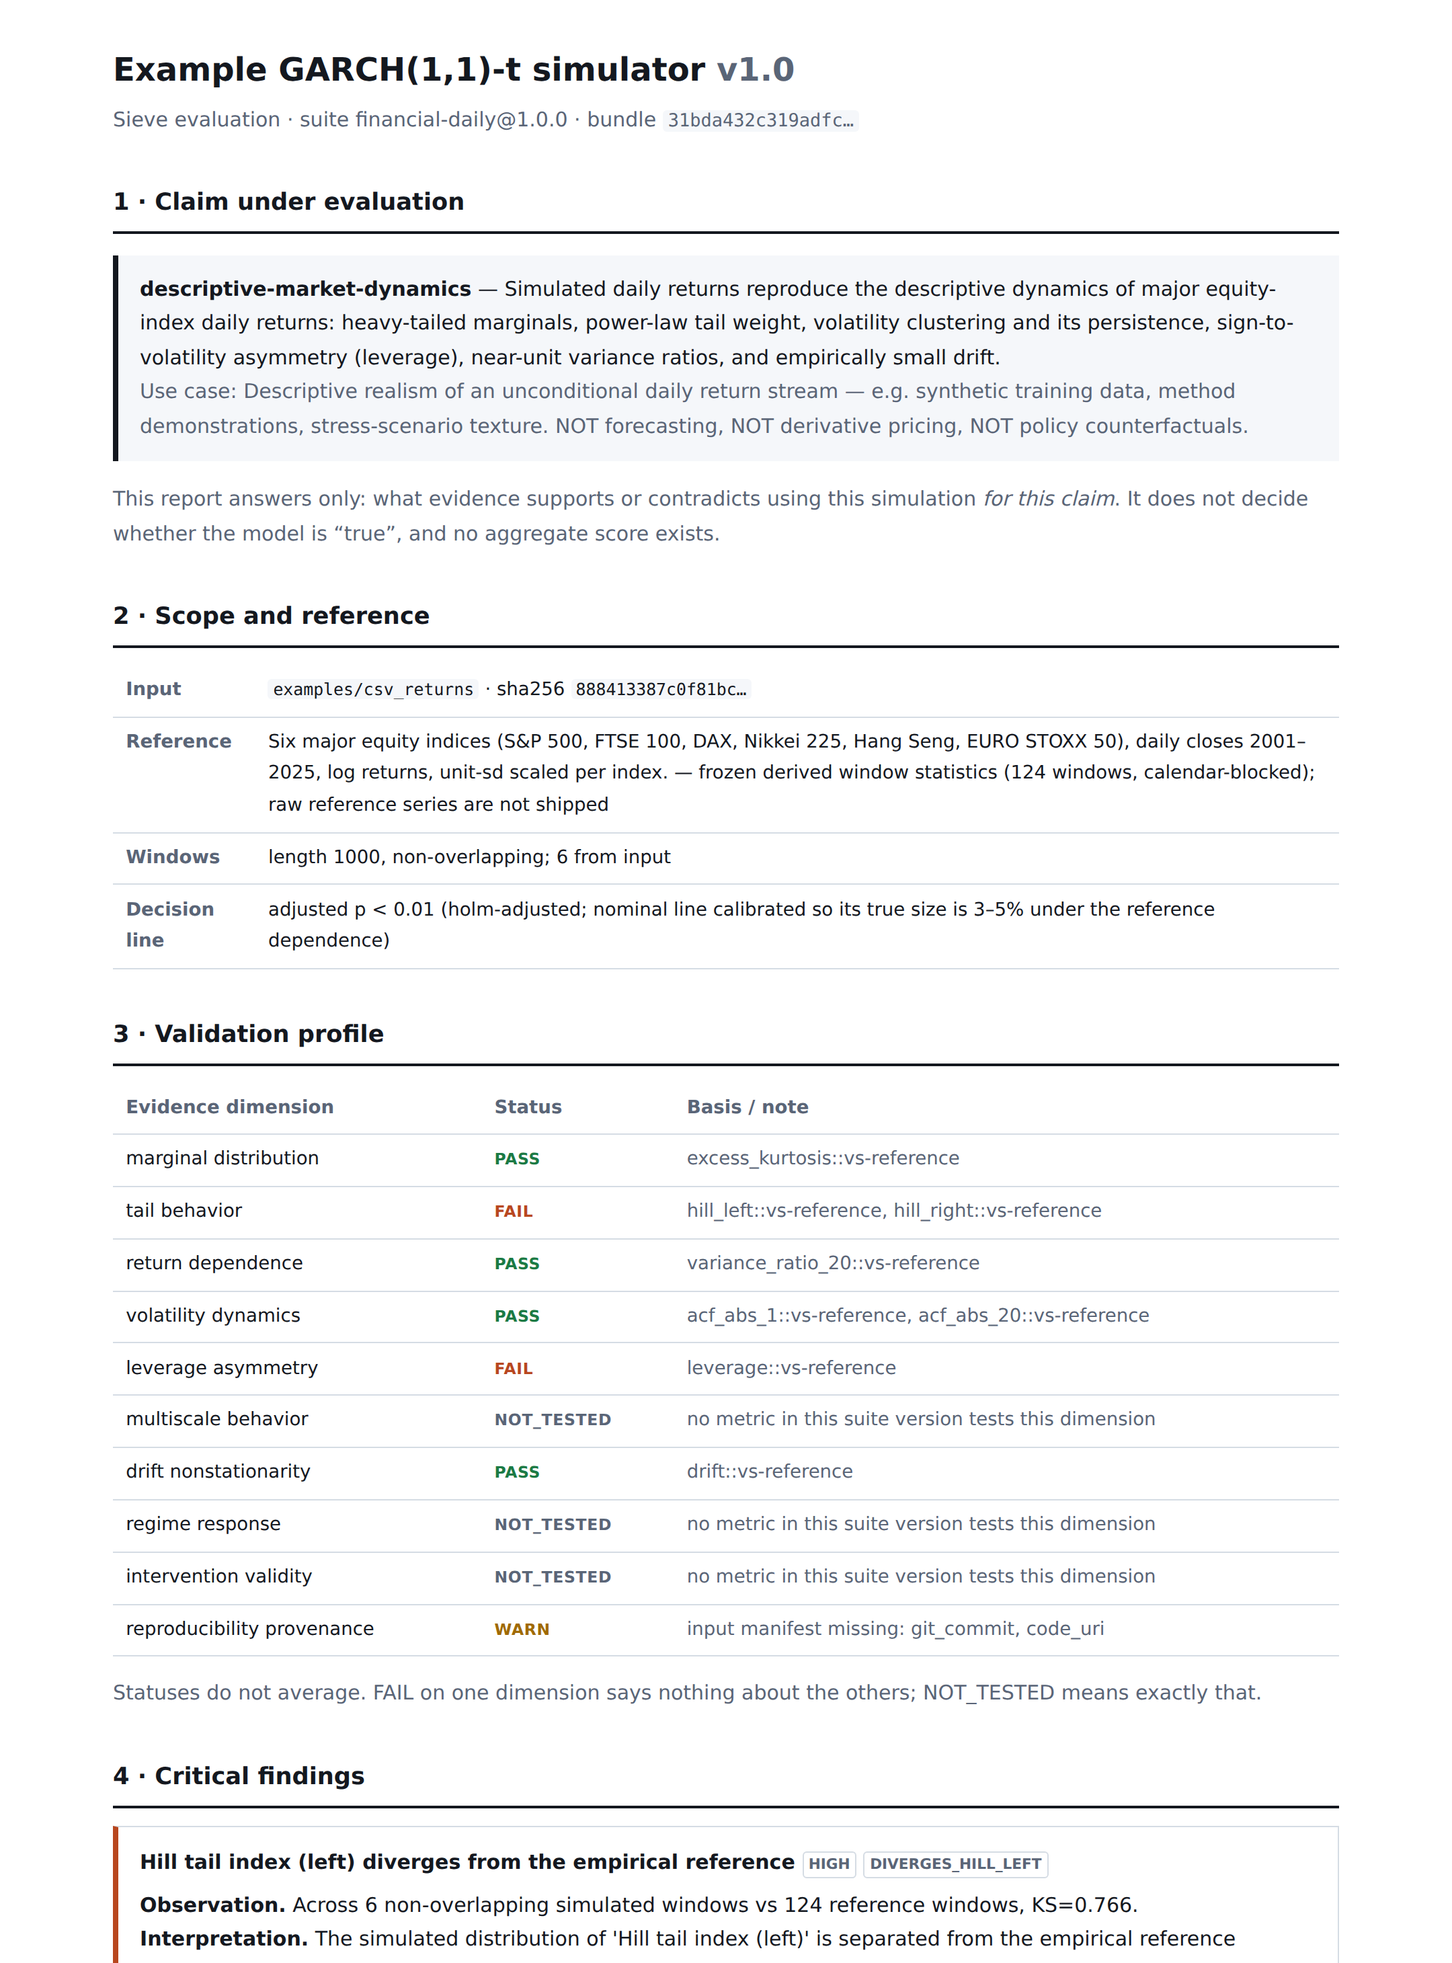
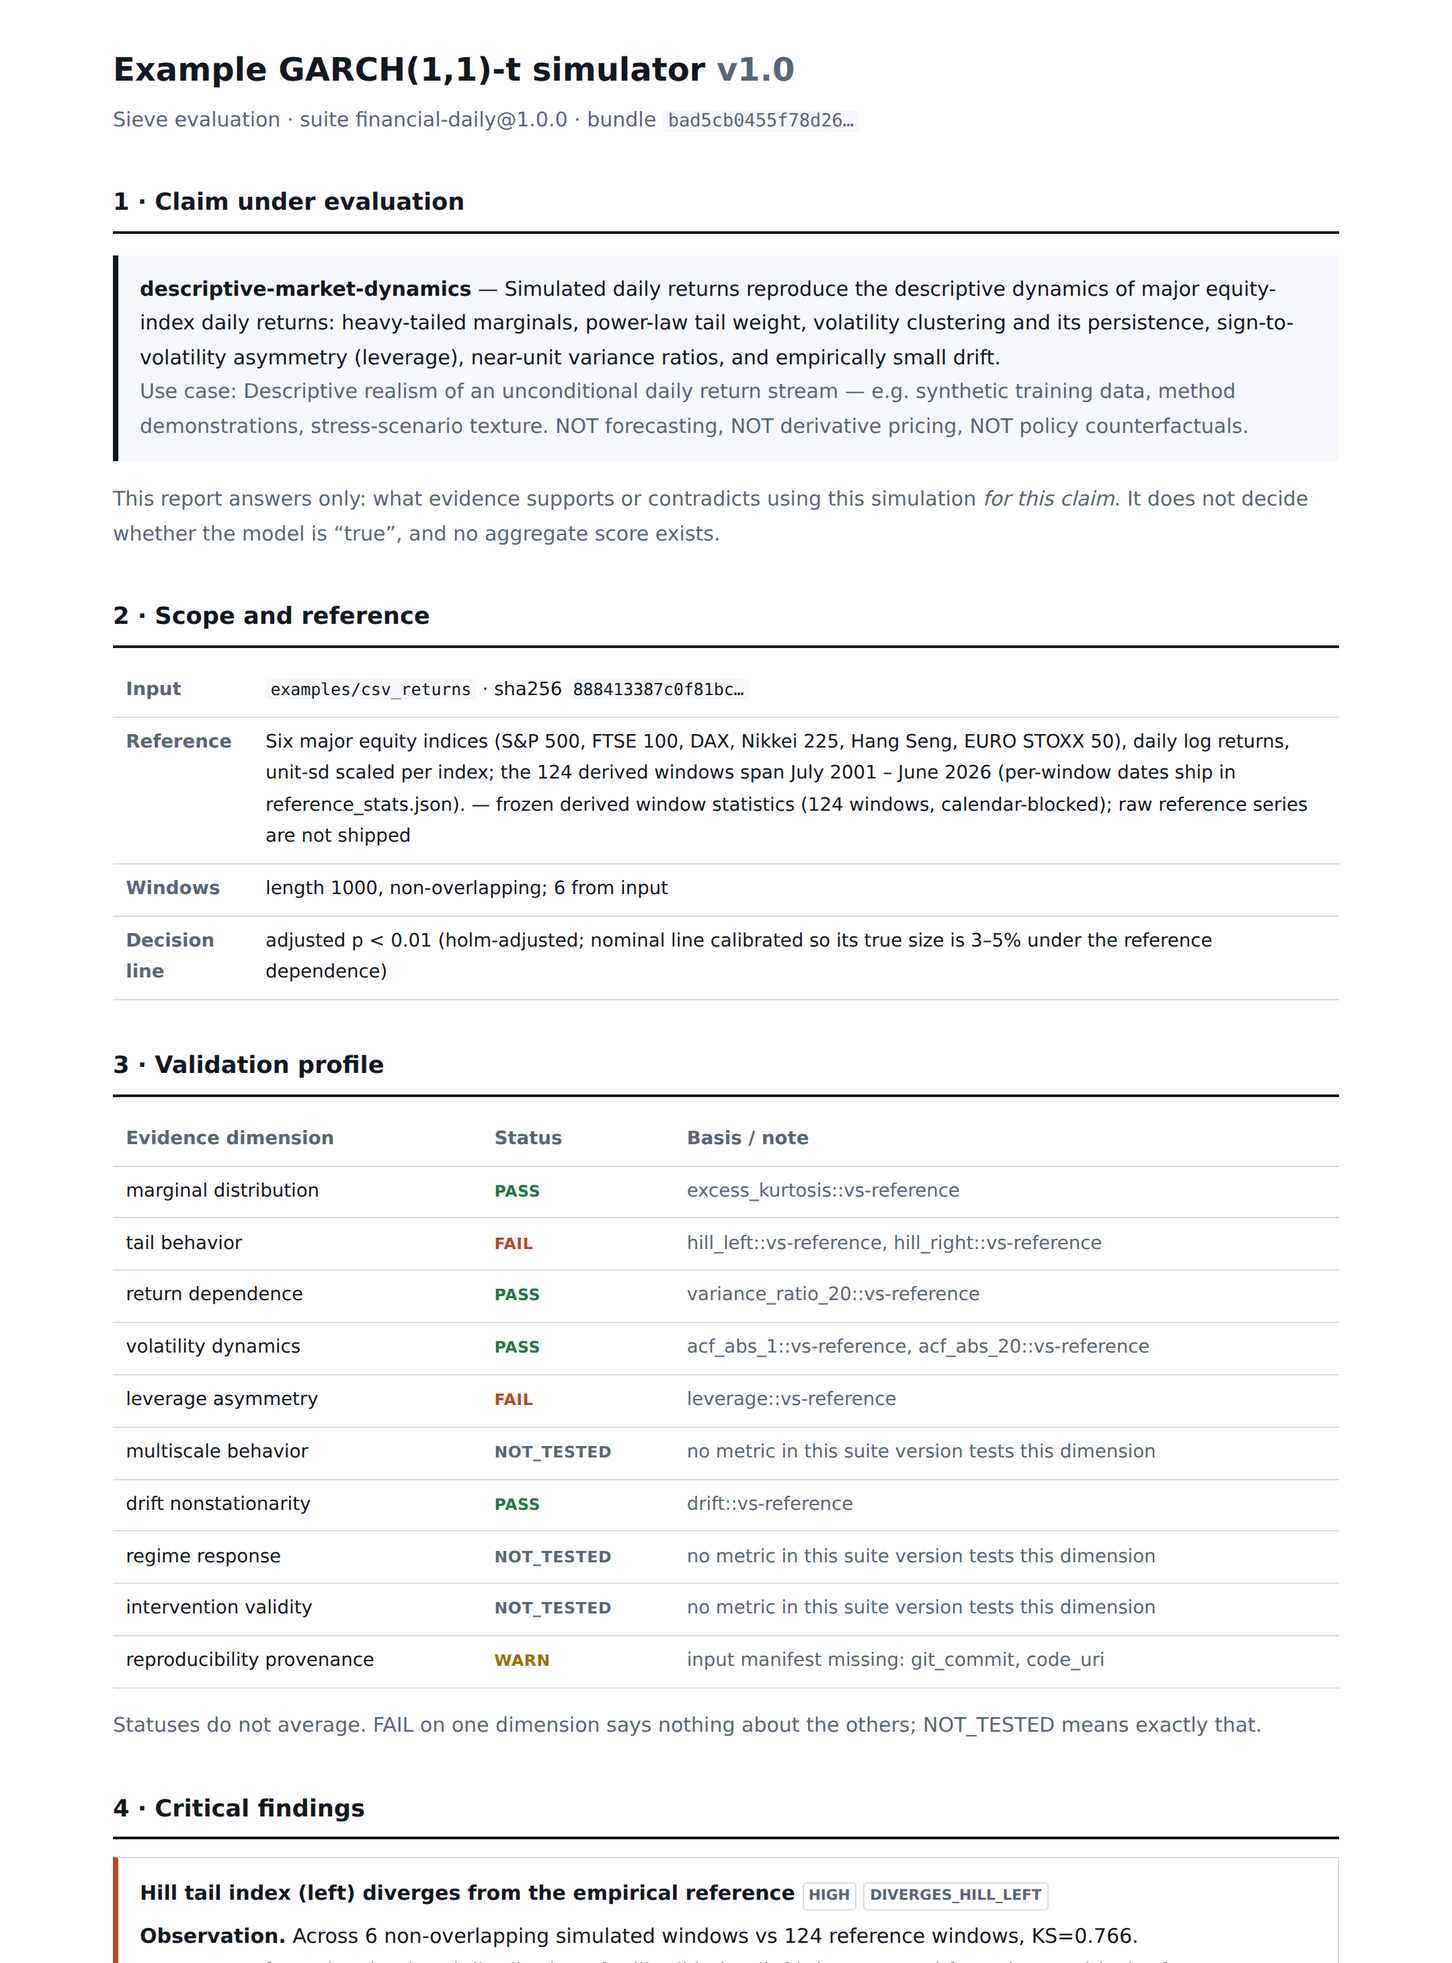
v0.1.1: pre-outreach corrections from review
Four findings, all fixed before any external reproduction request:

1. The bit-for-bit parity claim was skippable: a standalone clone ran
   69 tests and silently skipped the 9 needing the research repo. CI
   now has a parity job that checks out sieve-bench at a pinned commit
   (14baa86) and sets SIEVE_RESEARCH_ROOT, under which a missing or
   broken research checkout FAILS the golden tests instead of skipping.
   Skip messages in standalone clones now say where the claim is
   enforced. README/STATUS state the 69/8/1 split precisely.
2. The reproduction environment was unpinned: pip install -e . pulled
   latest deps while docs named specific versions. constraints.txt now
   pins the exact stack the example was sealed with (transitive closure
   included); docs/reproduce.md and both CI jobs install with it.
3. docs/architecture.md claimed the seal covers package versions; the
   implementation excludes the entire environment fingerprint. The docs
   now describe what is implemented - versions are recorded but not
   sealed, so a dependency change is detected exactly when it changes a
   measured value - and why that is the intended semantics.
4. The suite manifest said the reference covers 2001-2025; the shipped
   windows span July 2001 - June 2026. The label now states the span of
   the derived windows, verifiable from reference_stats.json.

Fixes 1 and 4 change suite content and the version is now sealed as
[…]

Changed region(s): [[0.062, 0.3428, 0.8995, 0.9973]]

diff --git a/docs/example-run/report/index.html b/docs/example-run/report/index.html
@@ -42,7 +42,7 @@
 
 <h1>Example GARCH(1,1)-t simulator <span class="muted">v1.0</span></h1>
 <div class="muted">Sieve evaluation · suite financial-daily@1.0.0
-· bundle <code>31bda432c319adfc…</code></div>
+· bundle <code>bad5cb0455f78d26…</code></div>
 
 <h2>1 · Claim under evaluation</h2>
 <div class="claim">
@@ -57,7 +57,7 @@ model is “true”, and no aggregate score exists.</p>
 <table>
   <tr><th>Input</th><td><code>examples/csv_returns</code>
       · sha256 <code>888413387c0f81bc…</code></td></tr>
-  <tr><th>Reference</th><td>Six major equity indices (S&P 500, FTSE 100, DAX, Nikkei 225, Hang Seng, EURO STOXX 50), daily closes 2001–2025, log returns, unit-sd scaled per index. — frozen derived
+  <tr><th>Reference</th><td>Six major equity indices (S&P 500, FTSE 100, DAX, Nikkei 225, Hang Seng, EURO STOXX 50), daily log returns, unit-sd scaled per index; the 124 derived windows span July 2001 – June 2026 (per-window dates ship in reference_stats.json). — frozen derived
       window statistics (124 windows,
       calendar-blocked); raw reference series are not shipped</td></tr>
   <tr><th>Windows</th><td>length 1000,
@@ -271,12 +271,12 @@ about the others; NOT_TESTED means exactly that.</p>
 
 <h2>7 · Provenance</h2>
 <table>
-  <tr><th>Run</th><td><code>190cc8da045f</code>
-      · sieve 0.1.0</td></tr>
+  <tr><th>Run</th><td><code>6488d40d92ad</code>
+      · sieve 0.1.1</td></tr>
   <tr><th>Command</th><td><code>sieve test examples/csv_returns --suite financial-daily@1.0 --claim descriptive-market-dynamics</code></td></tr>
   <tr><th>Master seed</th><td><code>20260802</code>
       (4 named children recorded)</td></tr>
-  <tr><th>Suite hash</th><td><code>7808f705d610cfde…</code></td></tr>
+  <tr><th>Suite hash</th><td><code>343042f8ceedf18a…</code></td></tr>
   <tr><th>Model source</th><td>git commit not provided
       · code URI not provided</td></tr>
   <tr><th>Environment</th><td class="muted">python 3.11.15 · platform Linux-6.18.5-fc-v20-x86_64-with-glibc2.39 · numpy 2.4.6 · pydantic 2.13.4 · scipy 1.17.1 · polars 1.43.2 · </td></tr>

diff --git a/tests/golden/test_metric_parity.py b/tests/golden/test_metric_parity.py
@@ -2,16 +2,22 @@
 
 Three layers, strongest available first:
 
-1. The suite ships byte-identical copies of the frozen fixtures.
+1. The suite ships byte-identical copies of the frozen fixtures. Runs
+   everywhere, always.
 2. Product metric functions equal the research functions bit-for-bit on
-   arbitrary synthetic input (runs whenever the research repo is present —
-   it is the parent directory in the current layout).
+   arbitrary synthetic input. Requires the sieve-bench research repo. CI
+   checks it out at a pinned commit and sets ``SIEVE_RESEARCH_ROOT`` — with
+   that variable set, a missing or unimportable research repo is a FAILURE,
+   not a skip. Without it (a standalone clone), these tests skip and say so;
+   the CI parity job is where the claim is enforced.
 3. Recomputing the 124 reference windows with product metrics reproduces the
-   frozen values exactly (runs only when the raw index data has been fetched
-   locally; the data itself is never shipped).
+   frozen values exactly. Needs the raw index data fetched locally
+   (sieve-bench ``fetch.py``); the data is not redistributable, so this
+   layer never runs in CI and skips wherever the data is absent.
 """
 
 import json
+import os
 import sys
 from pathlib import Path
 
@@ -19,18 +25,42 @@ import numpy as np
 import pytest
 
 PRODUCT = Path(__file__).resolve().parents[2]
-RESEARCH = PRODUCT.parent
+# CI pins the research checkout via SIEVE_RESEARCH_ROOT; the fallback covers
+# the historical monorepo layout (product/ inside sieve-bench).
+RESEARCH = Path(os.environ.get("SIEVE_RESEARCH_ROOT", PRODUCT.parent))
+RESEARCH_REQUIRED = "SIEVE_RESEARCH_ROOT" in os.environ
 FIX = Path(__file__).resolve().parent / "fixtures"
 SUITE = PRODUCT / "suites" / "financial-daily" / "1.0.0"
 
 M1_METRICS = ["excess_kurtosis", "hill_left", "hill_right", "acf_abs_1",
               "acf_abs_20", "leverage", "variance_ratio_20", "drift"]
 
+SKIP_NO_RESEARCH = (
+    "research repo not present; the parity claim is enforced by the CI "
+    "parity job against a pinned sieve-bench checkout "
+    "(SIEVE_RESEARCH_ROOT), see .github/workflows/test.yml")
+SKIP_NO_DATA = (
+    "raw index data not fetched locally (not redistributable; run "
+    "sieve-bench fetch.py to enable this layer — it never runs in CI)")
+
 
 def product_fn(mid):
     from sieve.metrics import registry
     fn, _, _ = registry.resolve(mid)
     return fn
+
+
+def _research_available() -> bool:
+    return (RESEARCH / "facts.py").exists()
+
+
+def _require_research():
+    """FAIL (not skip) when the pinned research checkout is broken."""
+    assert _research_available(), (
+        f"SIEVE_RESEARCH_ROOT={RESEARCH} is set but facts.py is not there — "
+        "the parity gate must not silently skip")
+    if str(RESEARCH) not in sys.path:
+        sys.path.insert(0, str(RESEARCH))
 
 
 # ---- layer 1: the suite ships exactly the frozen fixtures ------------------
@@ -55,11 +85,12 @@ def test_fixture_shape():
 
 # ---- layer 2: product == research on synthetic input, bit for bit ----------
 
-@pytest.mark.skipif(not (RESEARCH / "facts.py").exists(),
-                    reason="research repo absent")
+@pytest.mark.skipif(not RESEARCH_REQUIRED and not (Path(__file__).resolve()
+                    .parents[2].parent / "facts.py").exists(),
+                    reason=SKIP_NO_RESEARCH)
 @pytest.mark.parametrize("mid", M1_METRICS)
 def test_product_metric_equals_research_bit_for_bit(mid):
-    sys.path.insert(0, str(RESEARCH))
+    _require_research()
     import facts
     rng = np.random.default_rng(2026)
     samples = [rng.standard_normal(1000),
@@ -79,9 +110,9 @@ def test_product_metric_equals_research_bit_for_bit(mid):
 
 @pytest.mark.skipif(not (RESEARCH / "data").is_dir()
                     or not any((RESEARCH / "data").glob("*.json")),
-                    reason="raw index data not fetched locally")
+                    reason=SKIP_NO_DATA)
 def test_reference_values_recompute_exactly():
-    sys.path.insert(0, str(RESEARCH))
+    _require_research()
     from windows import load_series, real_windows
     ref = json.loads((FIX / "reference_stats.json").read_text())
     wins = real_windows(load_series())

diff --git a/tests/unit/test_cli.py b/tests/unit/test_cli.py
@@ -9,9 +9,10 @@ runner = CliRunner()
 
 
 def test_version():
+    import sieve
     res = runner.invoke(app, ["--version"])
     assert res.exit_code == 0
-    assert "sieve 0.1.0" in res.output
+    assert f"sieve {sieve.__version__}" in res.output
 
 
 def test_doctor_ok():

diff --git a/src/sieve/__init__.py b/src/sieve/__init__.py
@@ -4,4 +4,4 @@ Everything durable is a versioned, hashable artifact; nothing anywhere
 aggregates evidence into a single score.
 """
 
-__version__ = "0.1.0"
+__version__ = "0.1.1"

diff --git a/docs/reproduce.md b/docs/reproduce.md
@@ -6,28 +6,31 @@ statuses and the scientific seal.
 
 ## Environment
 
-Any OS. Python ≥ 3.11. Results are exact given the same package versions;
-the frozen example below was produced with:
+Any OS. Python ≥ 3.11. `constraints.txt` (committed) pins the exact package
+versions the frozen example was sealed with — install with it for the
+byte-exact seal check. Key pins:
 
 | package | version |
 |---|---|
-| python | 3.11.x |
 | numpy | 2.4.6 |
 | scipy | 1.17.1 |
 | pydantic | 2.13.4 |
 | polars | 1.43.2 |
 
-Different major versions will still reproduce the statuses; the byte-exact
-`bundle_hash` is only guaranteed under matching numerical stack versions
-(a different floating-point stack is a different computation, and the seal is
-supposed to notice).
+Without the constraints (newer packages), the statuses should still
+reproduce; the byte-exact `bundle_hash` is guaranteed only under the pinned
+numerical stack. Versions are recorded in the bundle's environment
+fingerprint but deliberately not hashed into the seal — a dependency change
+is detected exactly when it changes a measured value
+(`docs/architecture.md`).
 
 ## Steps
 
 ```
 git clone https://github.com/yuitokyouni/sieve
 cd sieve
-pip install -e .            # or: uv pip install -e .
+python -m venv .venv && . .venv/bin/activate
+pip install -e . -c constraints.txt      # or: uv pip install -e . -c constraints.txt
 
 # 1. integrity of the shipped example, without running anything
 sieve verify docs/example-run
@@ -42,8 +45,7 @@ sieve verify /tmp/sieve-runs/<run-id>
 
 ## Expected results
 
-The validation profile printed by step 2 (and in
-`report/index.html`):
+The validation profile printed by step 2 (and in `report/index.html`):
 
 | dimension | status |
 |---|---|
@@ -67,17 +69,29 @@ The scientific seal in `evidence_bundle.json` (`bundle_hash`) and printed by
 `sieve test`:
 
 ```
[2 lines of base64/hex data omitted]
 ```
 
 The suite hash recorded in the same bundle (`suite.suite_hash`):
 
 ```
[2 lines of base64/hex data omitted]
 ```
 
 Your `run_id`, timestamps and machine fingerprint will differ — they are
 outside the seal by design (`docs/architecture.md`).
+
+## Reproductions on record
+
+Machine-independent reproductions of the seal above, before any external
+request was made:
+
+- **Continuous:** every CI push reruns the golden path on a fresh
+  `ubuntu-latest` runner (a machine that never touched the sealing
+  environment) and asserts its `bundle_hash` equals the committed example's
+  — the "seal reproduces on this machine" step in
+  `.github/workflows/test.yml`, visible per-run in the Actions tab.
+- Named third-party reproductions will be listed here as they happen.
 
 ## If something does not match
 

diff --git a/CHANGELOG.md b/CHANGELOG.md
@@ -1,5 +1,42 @@
 # Changelog
 
+## 0.1.1 — 2026-08-09
+
+Pre-outreach corrections, all four found by review before any external
+reproduction request. Content changes shift the hashes; v0.1.0's pins remain
+valid for the v0.1.0 tag.
+
+Pinned by this release:
+
+- suite `financial-daily@1.0.0`, suite_hash
[1 lines of base64/hex data omitted]
+- frozen example run `docs/example-run/`, bundle_hash
[1 lines of base64/hex data omitted]
+- reproduction environment: `constraints.txt` (exact pins the example was
+  sealed with; transitive closure included)
+
+Changes:
+
+- **Parity claim now enforced, not skipped.** A standalone clone runs 69
+  tests and skips the 9 that need the research repo or its raw data. CI
+  gained a `parity` job that checks out sieve-bench at a pinned commit and
+  sets `SIEVE_RESEARCH_ROOT`, under which a missing or broken research
+  checkout is a test failure. Skip messages now say where the claim is
+  enforced.
+- **Reproduction environment pinned.** `constraints.txt` committed;
+  `docs/reproduce.md` and CI install with `-c constraints.txt`. Statuses
+  reproduce on newer stacks; the byte-exact seal is guaranteed under the
+  pins.
+- **Seal vs package versions documented correctly.** `docs/architecture.md`
+  claimed the seal covers package versions; it does not — the entire
+  environment fingerprint is recorded but unhashed, so a dependency change
+  is detected exactly when it changes a measured value. The docs now say
+  so, and say why.
+- **Reference period label fixed.** The suite manifest said "2001–2025";
+  the shipped windows span July 2001 – June 2026. The label now states the
+  span of the derived windows, verifiable from `reference_stats.json`
+  (suite_hash and all downstream hashes changed accordingly).
+
 ## 0.1.0 — 2026-08-09
 
 First public release: M0 (foundations) + M1 (offline golden path) + M1.5

diff --git a/docs/architecture.md b/docs/architecture.md
@@ -10,11 +10,20 @@ Every run produces two hashes with deliberately different scopes:
 
 - **`bundle_hash` — scientific identity.** SHA-256 of the canonical bundle
   JSON with volatile fields nulled shape-preserving. It covers the data
-  content hash, suite hash, claim, master seed and seed tree, package
-  versions, all results, the profile and the findings. It excludes run IDs,
-  timestamps, the artifact index, filesystem paths and the machine
-  fingerprint. Contract: same input bytes + same suite + same seed + same
-  package versions ⇒ same seal, on any machine. This is the hash to quote.
+  content hash, suite hash, claim, master seed and seed tree, the sieve
+  version, all results, the profile and the findings. It excludes run IDs,
+  timestamps, the artifact index, filesystem paths and the entire
+  environment fingerprint — **dependency versions are recorded in
+  `run_manifest.environment` (file-integrity layer) but are not hashed into
+  the seal**. A dependency upgrade is therefore detected exactly when it
+  changes a measured value, and invisible when it does not: two numpy
+  versions that compute identical results produce an identical seal, which
+  is the intended meaning of "what was measured". The flip side is that
+  matching package versions are a *precondition* for byte-exact
+  reproduction, not something the seal enforces — which is why
+  `constraints.txt` pins the reproduction environment and
+  `docs/reproduce.md` installs with it. Contract: same input bytes + same
+  suite + same seed + same package versions ⇒ same seal, on any machine.
 - **`bundle.sha256` — distribution integrity.** A sha256sum-compatible
   sidecar over the written `evidence_bundle.json` bytes, which include the
   artifact index (per-file hashes of the report, results, observations,

diff --git a/README.md b/README.md
@@ -156,8 +156,14 @@ appear in the report rather than being silently filled.
 
 ## Status
 
-v0.1.0: the offline golden path above is complete and tested (78 tests,
-including cross-path determinism, both tamper layers and bit-for-bit parity
-with the research repository). `STATUS.md` maps every acceptance criterion to
-its test; `docs/architecture.md` records design decisions including the two
+v0.1.1: the offline golden path above is complete and tested. 69 of the 78
+tests run anywhere from this repo alone (cross-path determinism, both tamper
+layers, no-score enforcement among them); the 8 bit-for-bit parity tests
+against the research code run in CI against a pinned sieve-bench checkout —
+where a missing checkout is a failure, not a skip — and the 1 test that
+recomputes the 124 reference windows runs only where the raw index data has
+been fetched locally, because that data is not redistributable. CI also
+reruns the golden path on every push and asserts the fresh runner's seal
+equals the committed example's. `STATUS.md` maps every acceptance criterion
+to its test; `docs/architecture.md` records design decisions including the
 seal-scope corrections found by our own audit tests.

diff --git a/STATUS.md b/STATUS.md
@@ -71,7 +71,19 @@ citable or inspectable by a third party without installing anything.
 - [x] Tagged `v0.1.0` (source commit, suite hash, example bundle hash pinned
       in the tag annotation and CHANGELOG)
 
-### Acceptance criteria → tests (all passing, 78 total)
+## v0.1.1 — pre-outreach corrections: DONE
+
+Four review findings fixed before any external reproduction request; see
+CHANGELOG 0.1.1. Notables: the parity claim is now CI-enforced against a
+pinned sieve-bench checkout (`parity` job; skip → failure under
+`SIEVE_RESEARCH_ROOT`), `constraints.txt` pins the reproduction
+environment, the seal/package-version relationship is documented as
+implemented, and the reference-period label matches the shipped windows.
+
+### Acceptance criteria → tests
+
+78 total: 69 run standalone, 8 parity tests run in the CI `parity` job
+against a pinned sieve-bench checkout, 1 requires locally fetched raw data.
 
 | Criterion | Test |
 |---|---|
